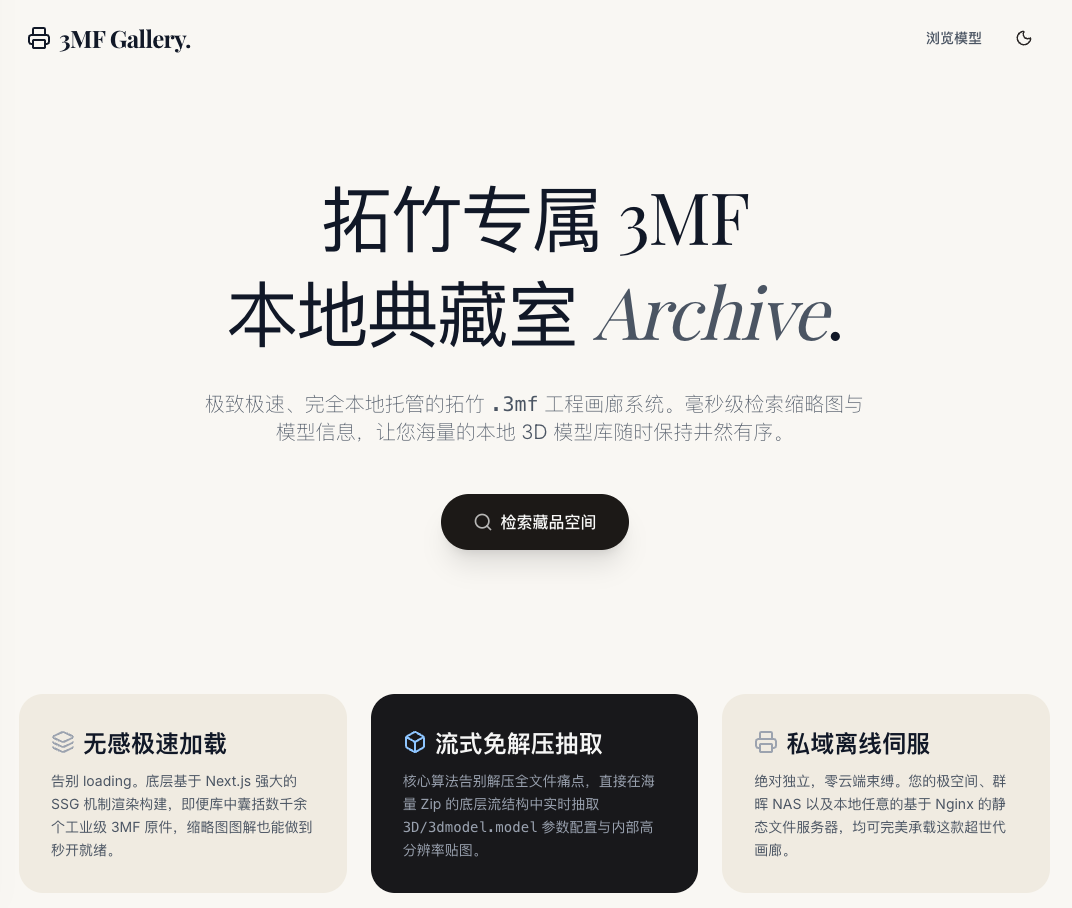
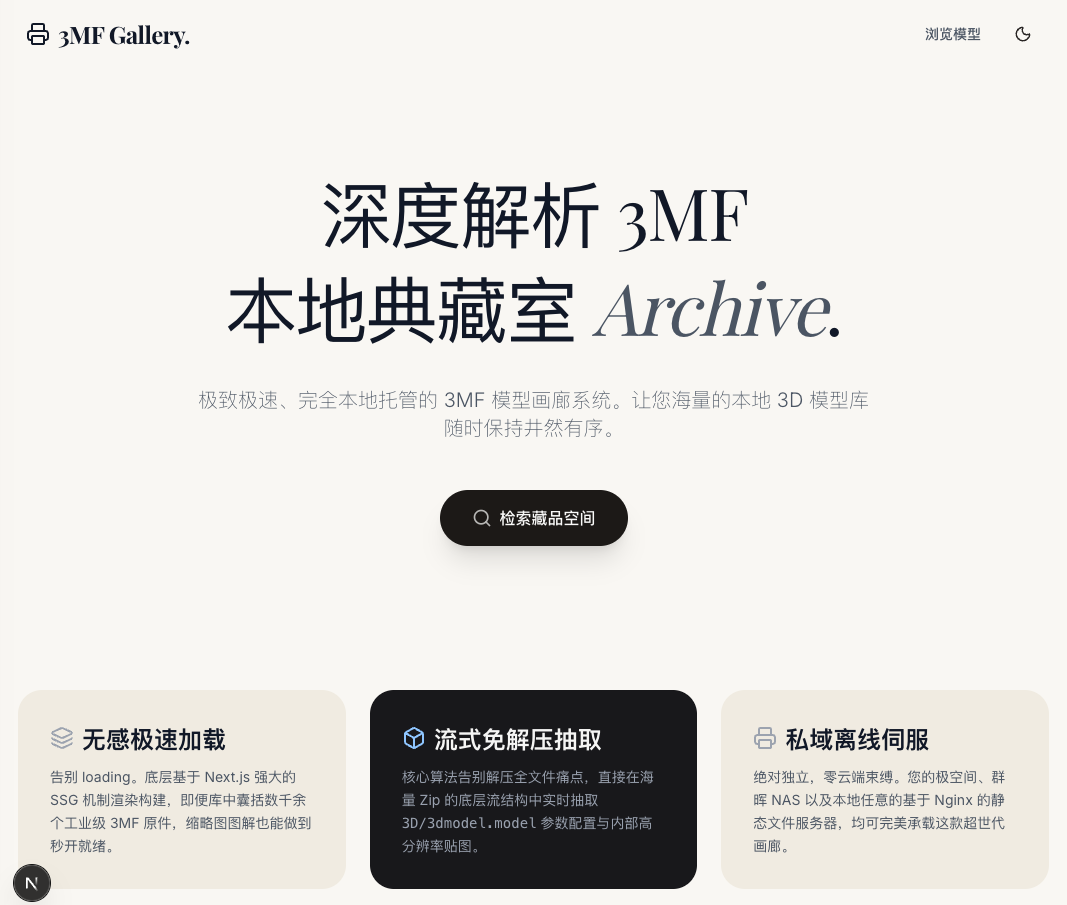
refactor: update landing page hero text and replace header image asset

diff --git a/src/components/LandingUI.tsx b/src/components/LandingUI.tsx
@@ -28,7 +28,7 @@ export default function LandingUI() {
       className="font-sans selection:bg-blue-300 selection:text-black dark:selection:bg-blue-700 dark:selection:text-white"
       style={{ background: "var(--bg-page)", color: "var(--text-primary)" }}
     >
-      
+
       {/* --- 顶部：极简导航栏 --- */}
       <header className="flex items-center justify-between px-8 py-6 max-w-7xl mx-auto">
         <div className="font-serif text-2xl font-bold tracking-tight flex items-center gap-2">
@@ -59,16 +59,16 @@ export default function LandingUI() {
           variants={{ visible: { transition: { staggerChildren: 0.1 } } }}
         >
           <div className="overflow-hidden pb-2">
-            <motion.h1 
-              variants={heroTitleVariants} 
+            <motion.h1
+              variants={heroTitleVariants}
               className="font-serif text-5xl md:text-7xl tracking-tight leading-[1.1]"
             >
-              拓竹专属 3MF
+              深度解析 3MF
             </motion.h1>
           </div>
           <div className="overflow-hidden mt-2 pb-2">
-            <motion.h1 
-              variants={heroTitleVariants} 
+            <motion.h1
+              variants={heroTitleVariants}
               className="font-serif text-5xl md:text-7xl tracking-tight leading-[1.1]"
             >
               本地典藏室{" "}
@@ -90,7 +90,7 @@ export default function LandingUI() {
           className="mt-8 text-lg md:text-xl max-w-2xl font-light"
           style={{ color: "var(--text-secondary)" }}
         >
-          极致极速、完全本地托管的拓竹 <code>.3mf</code> 工程画廊系统。毫秒级检索缩略图与模型信息，让您海量的本地 3D 模型库随时保持井然有序。
+          极致极速、完全本地托管的 3MF 模型画廊系统。让您海量的本地 3D 模型库随时保持井然有序。
         </motion.p>
 
         <motion.div
@@ -99,7 +99,7 @@ export default function LandingUI() {
           transition={{ delay: 0.6, duration: 0.8 }}
           className="mt-12 flex items-center justify-center gap-4"
         >
-          <Link 
+          <Link
             href="/library"
             className="
               px-8 py-4 rounded-full font-medium transition-all group flex items-center gap-2 shadow-xl
@@ -156,7 +156,7 @@ export default function LandingUI() {
               核心算法告别解压全文件痛点，直接在海量 Zip 的底层流结构中实时抽取 <code>3D/3dmodel.model</code> 参数配置与内部高分辨率贴图。
             </p>
           </motion.div>
-          
+
           {/* 卡片 3 — 亮色 muted */}
           <motion.div
             variants={cardVariants}
@@ -176,7 +176,7 @@ export default function LandingUI() {
           </motion.div>
         </motion.div>
       </section>
-      
+
     </main>
   );
 }
